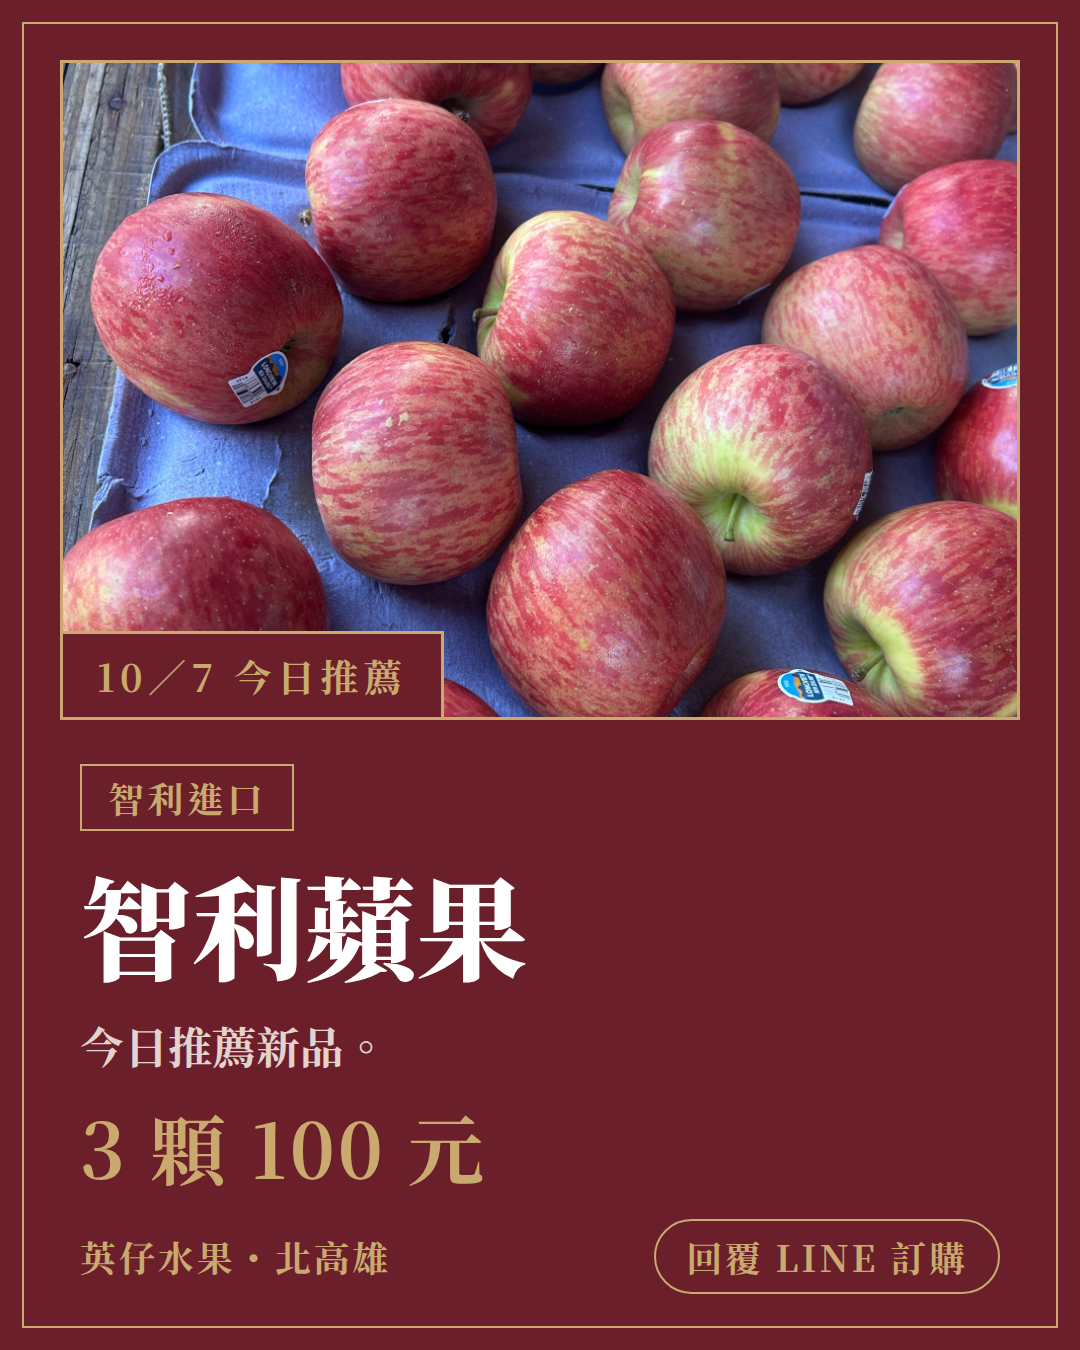
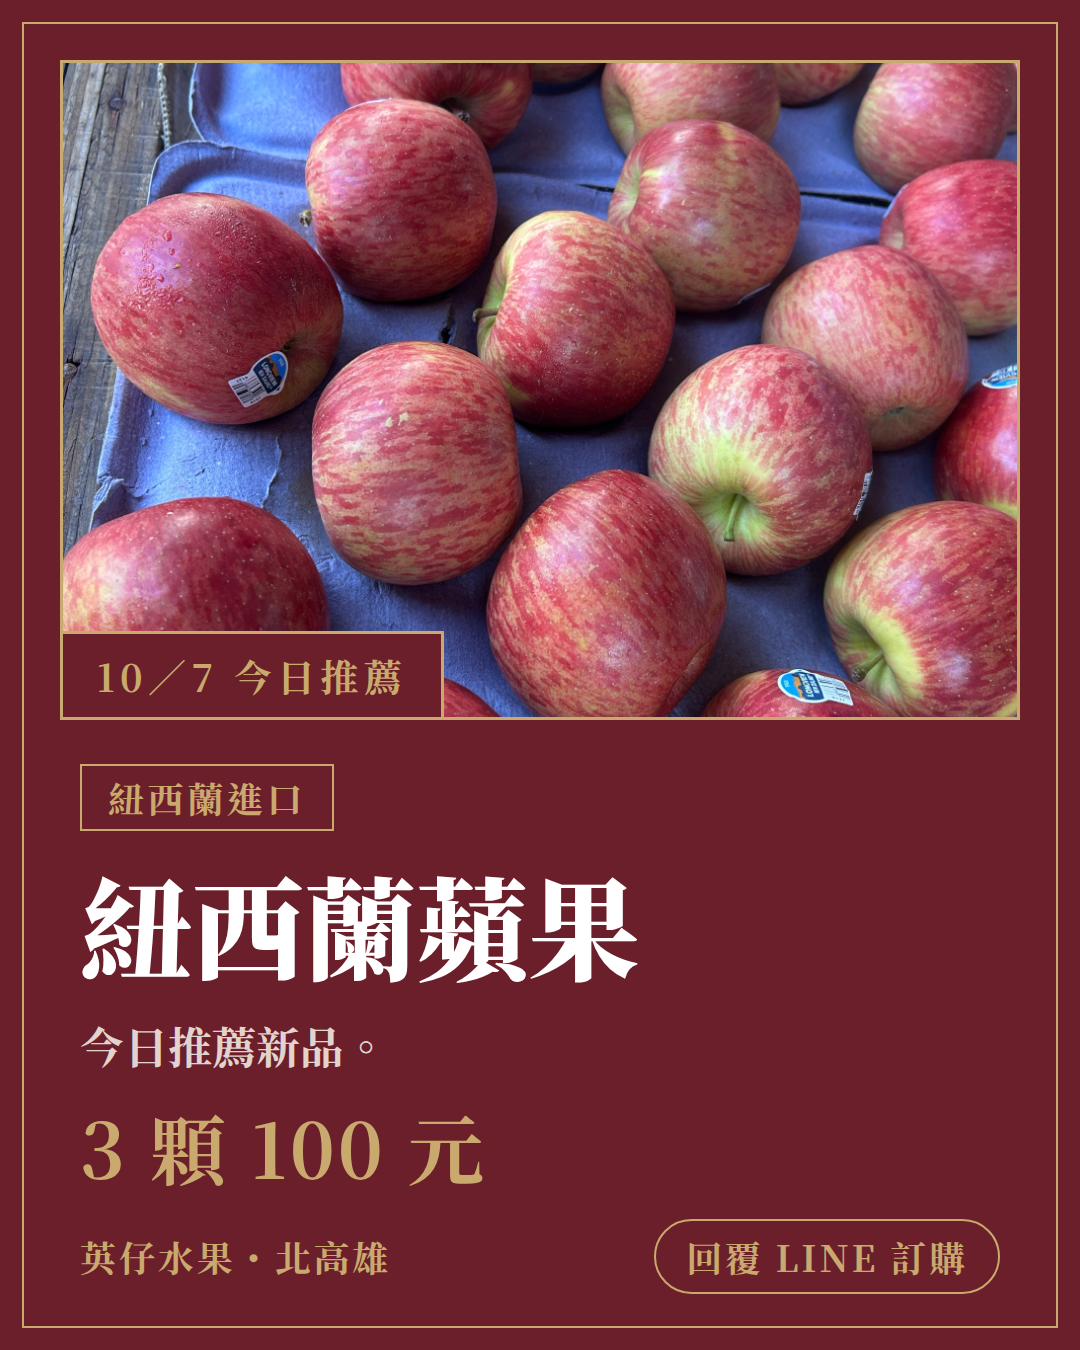
Fix apple origin: New Zealand
Claude-Session: https://claude.ai/code/session_01PL7HGywDrPUdsLBcZeJFu6

Changed region(s): [[0.0611, 0.6533, 0.5806, 0.7467], [0.0917, 0.56, 0.275, 0.6222]]

diff --git a/ig/line.html b/ig/line.html
@@ -41,7 +41,7 @@ body{background:#999;font-family:'Noto Serif TC',serif;font-weight:700;display:f
 // ===== 每天只需改這裡 =====
 const DATE = (() => { const t = new Date(new Date().toLocaleString('en-US', { timeZone: 'Asia/Taipei' })); return `${t.getMonth() + 1}／${t.getDate()}`; })();
 const ITEMS = [
- {file:'apple', name:'智利蘋果', origin:'智利進口', desc:'今日推薦新品。', price:'3 顆 100 元', img:'photos/apple-new.jpg'},
+ {file:'apple', name:'紐西蘭蘋果', origin:'紐西蘭進口', desc:'今日推薦新品。', price:'3 顆 100 元', img:'photos/apple-new.jpg'},
  {file:'honeydew', name:'美國蜜世界', origin:'美國空運', desc:'今日推薦新品。', price:'1 顆 400 元', img:'photos/melon-new.jpg'},
  {file:'passion', name:'藍星百香果', origin:'今日新品', desc:'這超香，吃起來超甜！', price:'5 粒 100 元', img:'photos/passion.jpg'},
  {file:'persimmon', name:'次郎甜柿', origin:'今日新品', desc:'今日推薦新品。', price:'1 顆 50 元', img:'photos/persimmon.jpg'},

diff --git a/ig/card.html b/ig/card.html
@@ -22,7 +22,7 @@ p{font-size:44px;line-height:1.65;color:rgba(250,245,236,.85)}
 // ===== 每天只需改這裡 =====
 const DATE = (() => { const t = new Date(new Date().toLocaleString('en-US', { timeZone: 'Asia/Taipei' })); return `${t.getMonth() + 1}／${t.getDate()}`; })();
 const ITEMS = [
- {file:'apple', name:'智利蘋果', origin:'智利進口', desc:'今日推薦新品。', price:'3 顆 100 元', img:'photos/apple-new.jpg'},
+ {file:'apple', name:'紐西蘭蘋果', origin:'紐西蘭進口', desc:'今日推薦新品。', price:'3 顆 100 元', img:'photos/apple-new.jpg'},
  {file:'honeydew', name:'美國蜜世界', origin:'美國空運', desc:'今日推薦新品。', price:'1 顆 400 元', img:'photos/melon-new.jpg'},
  {file:'passion', name:'藍星百香果', origin:'今日新品', desc:'這超香，吃起來超甜！', price:'5 粒 100 元', img:'photos/passion.jpg'},
  {file:'persimmon', name:'次郎甜柿', origin:'今日新品', desc:'今日推薦新品。', price:'1 顆 50 元', img:'photos/persimmon.jpg'},
